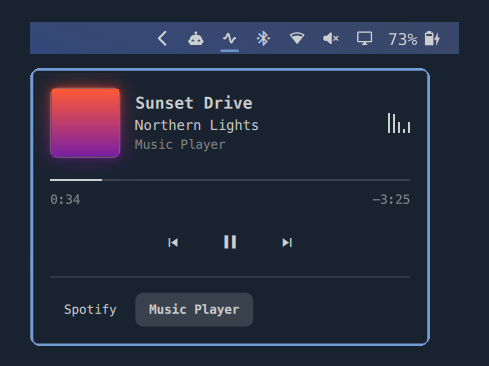
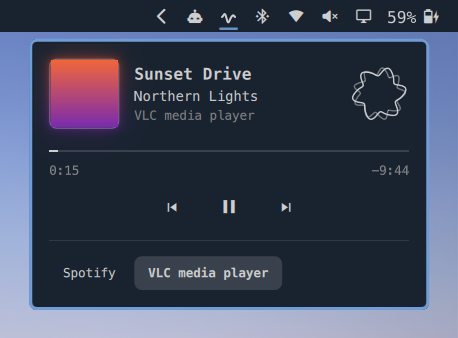
Retake screenshots for v1.1.0
Show the crisp bar wave playing and paused, and the panel with the two
wave rings, the softer cover glow and the centred transport. The bar
shots are at the screen's native resolution, so they're smaller than
before rather than upscaled.

diff --git a/README.md b/README.md
@@ -1,7 +1,7 @@
 # Now Playing for Omarchy
 
 <p align="center">
-  <img src="preview.png" alt="The Now Playing panel open under the Omarchy bar" width="489">
+  <img src="preview.png" alt="The Now Playing panel open under the Omarchy bar" width="458">
 </p>
 
 A minimal, music-only control for the Omarchy bar. A small sound wave moves while music plays and settles into a flat line when paused. It is drawn on whole pixels, so it stays as sharp as the icons beside it. The icon appears only while a music player has a track loaded.
@@ -83,7 +83,6 @@ Set these with `omarchy bar set softwave.nowplaying <key> <value>`.
 - Two wave rings replace the five level bars in the panel. They ripple with the real output level and settle into a still circle when paused.
 - The glow behind the cover is a little stronger and more colourful.
 - The play, previous and next buttons now sit evenly between the timeline and the divider below.
-- Bar and panel screenshots still show the previous design.
 
 ### [v1.0.2](https://github.com/Profit94/omarchy-nowplaying/releases/tag/v1.0.2)
 
